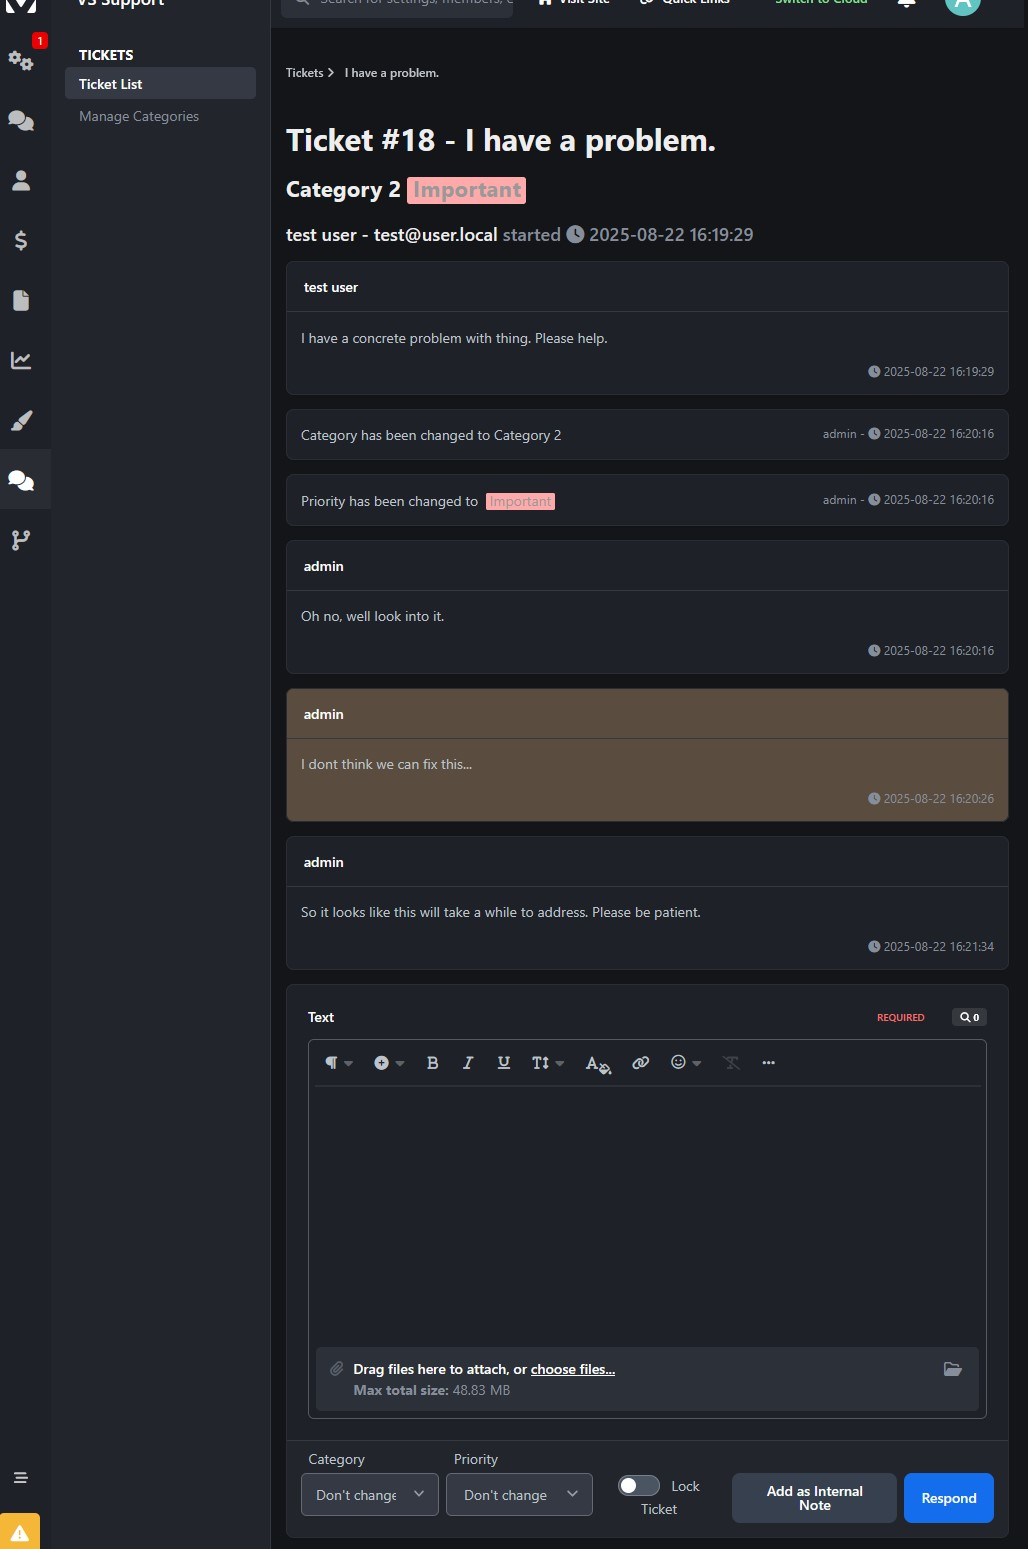
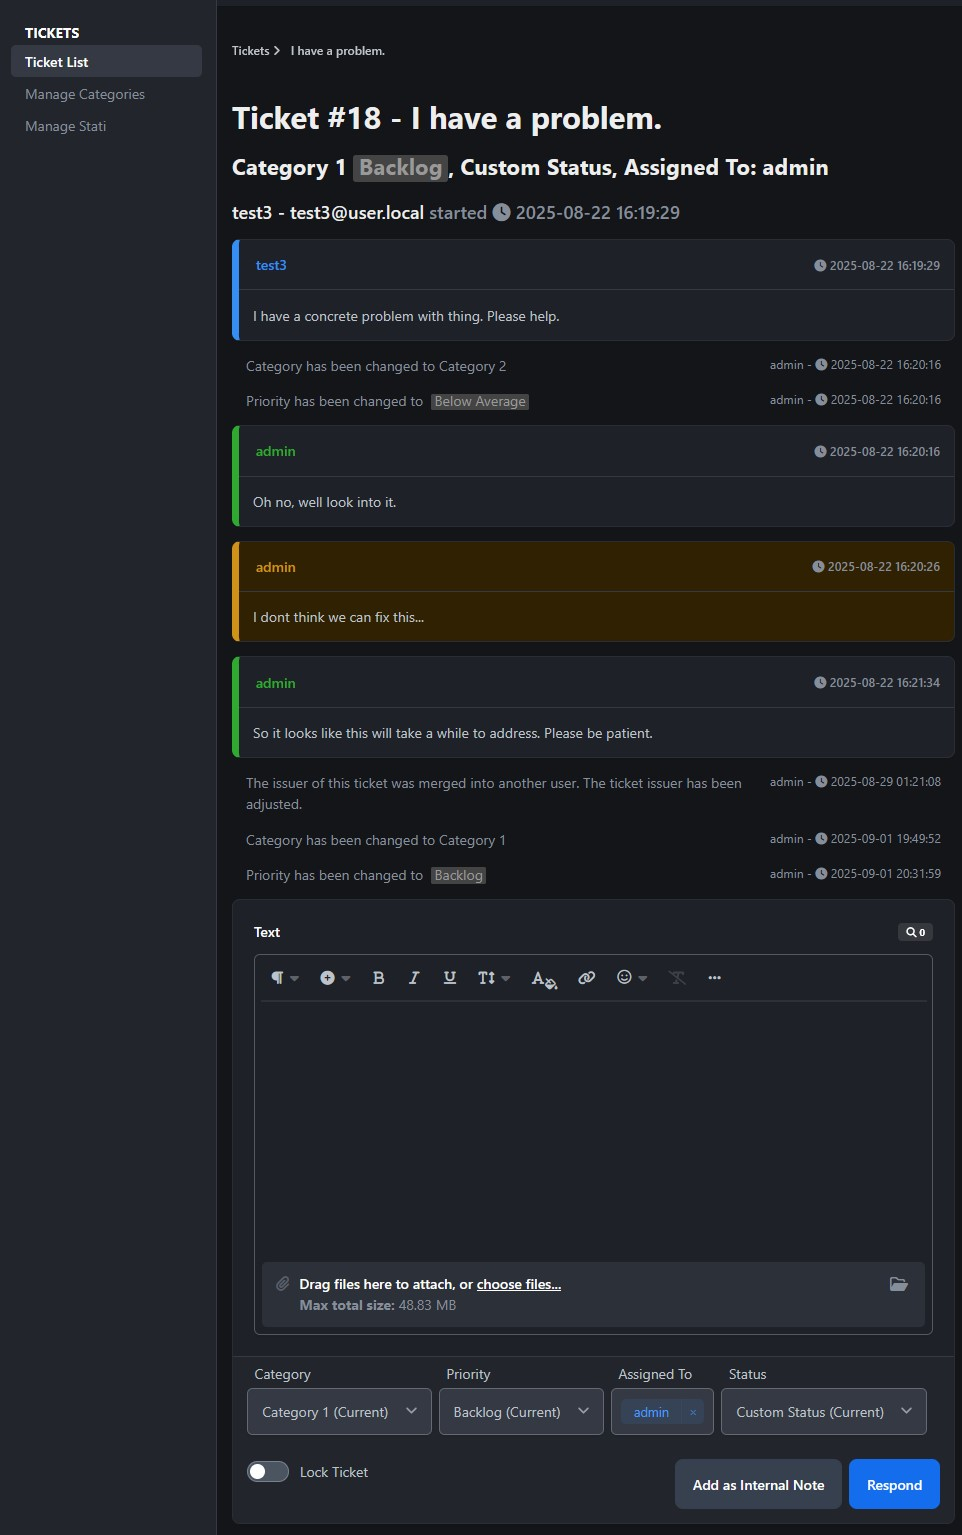
cleaned up ticket actions visuals

diff --git a/dev/css/global/global.css b/dev/css/global/global.css
@@ -26,10 +26,15 @@
   border-radius: .125em;
 	background-color: var(--ticket-prio-bg);
 	color: var(--ticket-prio-fg);
+	white-space: nowrap;
 }
 
-
-/* Messages */
-.message-time {
-	text-align: right;
+/* Message coloring */
+.ticket-message.message-issuer { --message-color: #358ef4; }
+.ticket-message.message-moderator { --message-color: #2fa92f; }
+.ticket-message {
+	border-left: solid var(--message-color, var(--i-background_4)) .5em;
+}
+.ticket-message .message-author {
+	color: var(--message-color);
 }

diff --git a/dev/css/admin/ticket.css b/dev/css/admin/ticket.css
@@ -5,9 +5,10 @@
 	gap: 1em;
 }
 
-.internal-note {
-	--i-box--ba-co: hsl(30, 18%, 30%);
+.ticket-message.message-internal {
+	--i-box--ba-co: hsl(40, 90%, 10%);
 	--i-boxHeader--ba-co: var(--i-box--ba-co);
+	--message-color: hsl(40, 80%, 45%);
 }
 
 .ipsSubmitRow {

diff --git a/modules/front/tickets/tickets.php b/modules/front/tickets/tickets.php
@@ -187,7 +187,7 @@ class tickets extends Controller
 		$theme = Theme::i();
 
 		$actions = query_all(
-			$db->select('a.created, a.kind, a.reference_id, u.name AS initiator, m.text, m.flags, IFNULL(c.name_key, s.name_key) AS name_key, as.name AS assigned_to_name', ['vssupport_ticket_action_history', 'a'],
+			$db->select('a.created, a.kind, a.reference_id, a.initiator AS initiator_id, u.name AS initiator, m.text, m.flags, IFNULL(c.name_key, s.name_key) AS name_key, as.name AS assigned_to_name', ['vssupport_ticket_action_history', 'a'],
 				where: 'a.ticket = '.$ticket['id'].' AND !(IFNULL(m.flags, 0) & '.MessageFlags::Internal.')', order: 'a.created ASC')
 			->join(['core_members', 'u'], 'u.member_id = a.initiator')
 			->join(['vssupport_messages', 'm'], 'm.id = a.reference_id AND a.kind = '.ActionKind::Message)
@@ -197,7 +197,9 @@ class tickets extends Controller
 		);
 		foreach($actions as &$action) {
 			if(!$action['initiator']) $action['initiator'] = $ticket['issuer_name'];
+			if($action['kind'] === ActionKind::Assigned && !$action['assigned_to_name']) $action['assigned_to_name'] = $lang->addToStack('unknown');
 			if($action['kind'] === ActionKind::PriorityChange) $action['reference_id'] -= 2; // :UnsignedPriority
+			if($action['kind'] === ActionKind::Message) $action['message_kind'] = $action['initiator_id'] === 0 || $action['initiator'] === $ticket['issuer_name'] ? 'issuer' : 'moderator';
 		}
 		unset($action);
 

diff --git a/modules/admin/tickets/tickets.php b/modules/admin/tickets/tickets.php
@@ -199,6 +199,7 @@ class tickets extends Controller
 			if(!$action['initiator']) $action['initiator'] = $action['initiator_id'] === 0 ? $ticket['issuer_name'] : static::_unknownName($lang);
 			if($action['kind'] === ActionKind::Assigned && !$action['assigned_to_name']) $action['assigned_to_name'] = static::_unknownName($lang);
 			if($action['kind'] === ActionKind::PriorityChange) $action['reference_id'] -= 2; // :UnsignedPriority
+			if($action['kind'] === ActionKind::Message) $action['message_kind'] = ($action['flags'] & MessageFlags::Internal) ? 'internal' : (($action['initiator_id'] === 0 || $action['initiator'] === $ticket['issuer_name']) ? 'issuer' : 'moderator');
 		}
 		unset($action);
 

diff --git a/README.md b/README.md
@@ -83,6 +83,9 @@ Without leaving the ticket for most actions.
 - Better user change tracking
 	- User name change tracking is flaky
 - Content items? 
+- Invertible message flow in the backend (configurable)
+- Add disclaimer field on ticket entry
+- Hide the secondary menu when viewing tickets in the backend
 
 ## License
 
